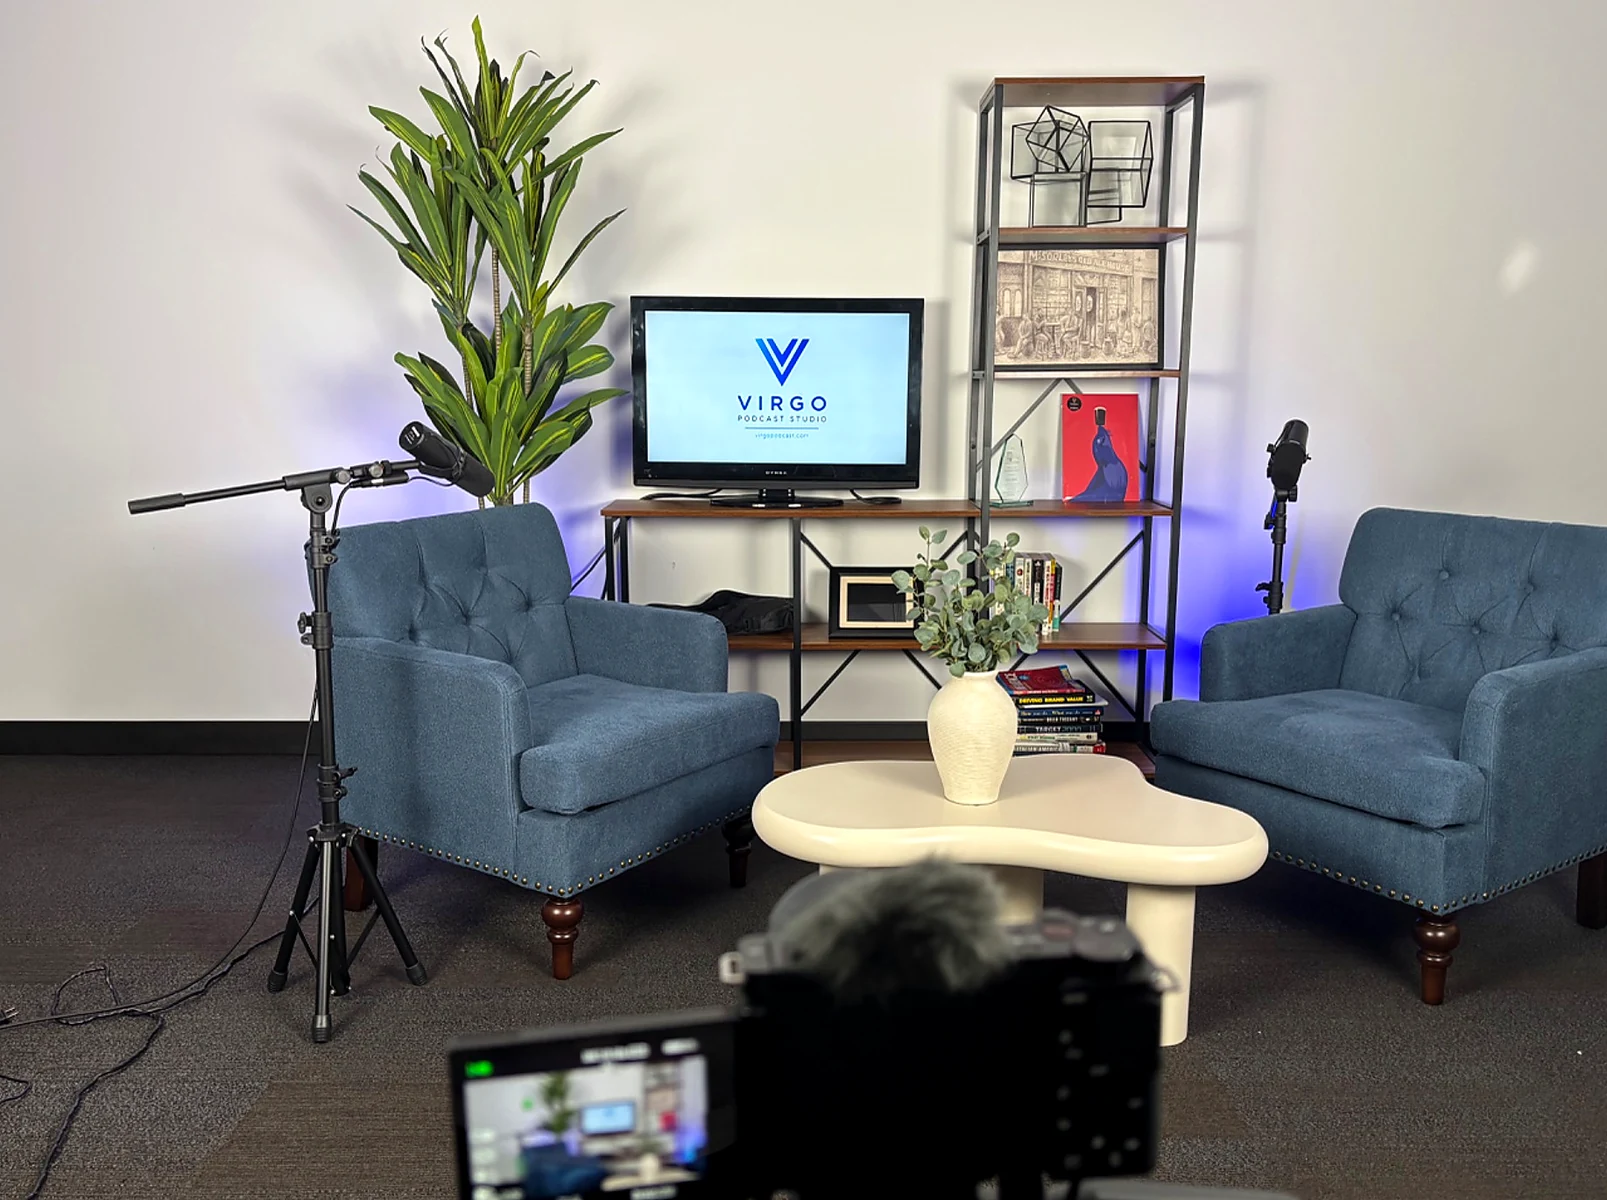
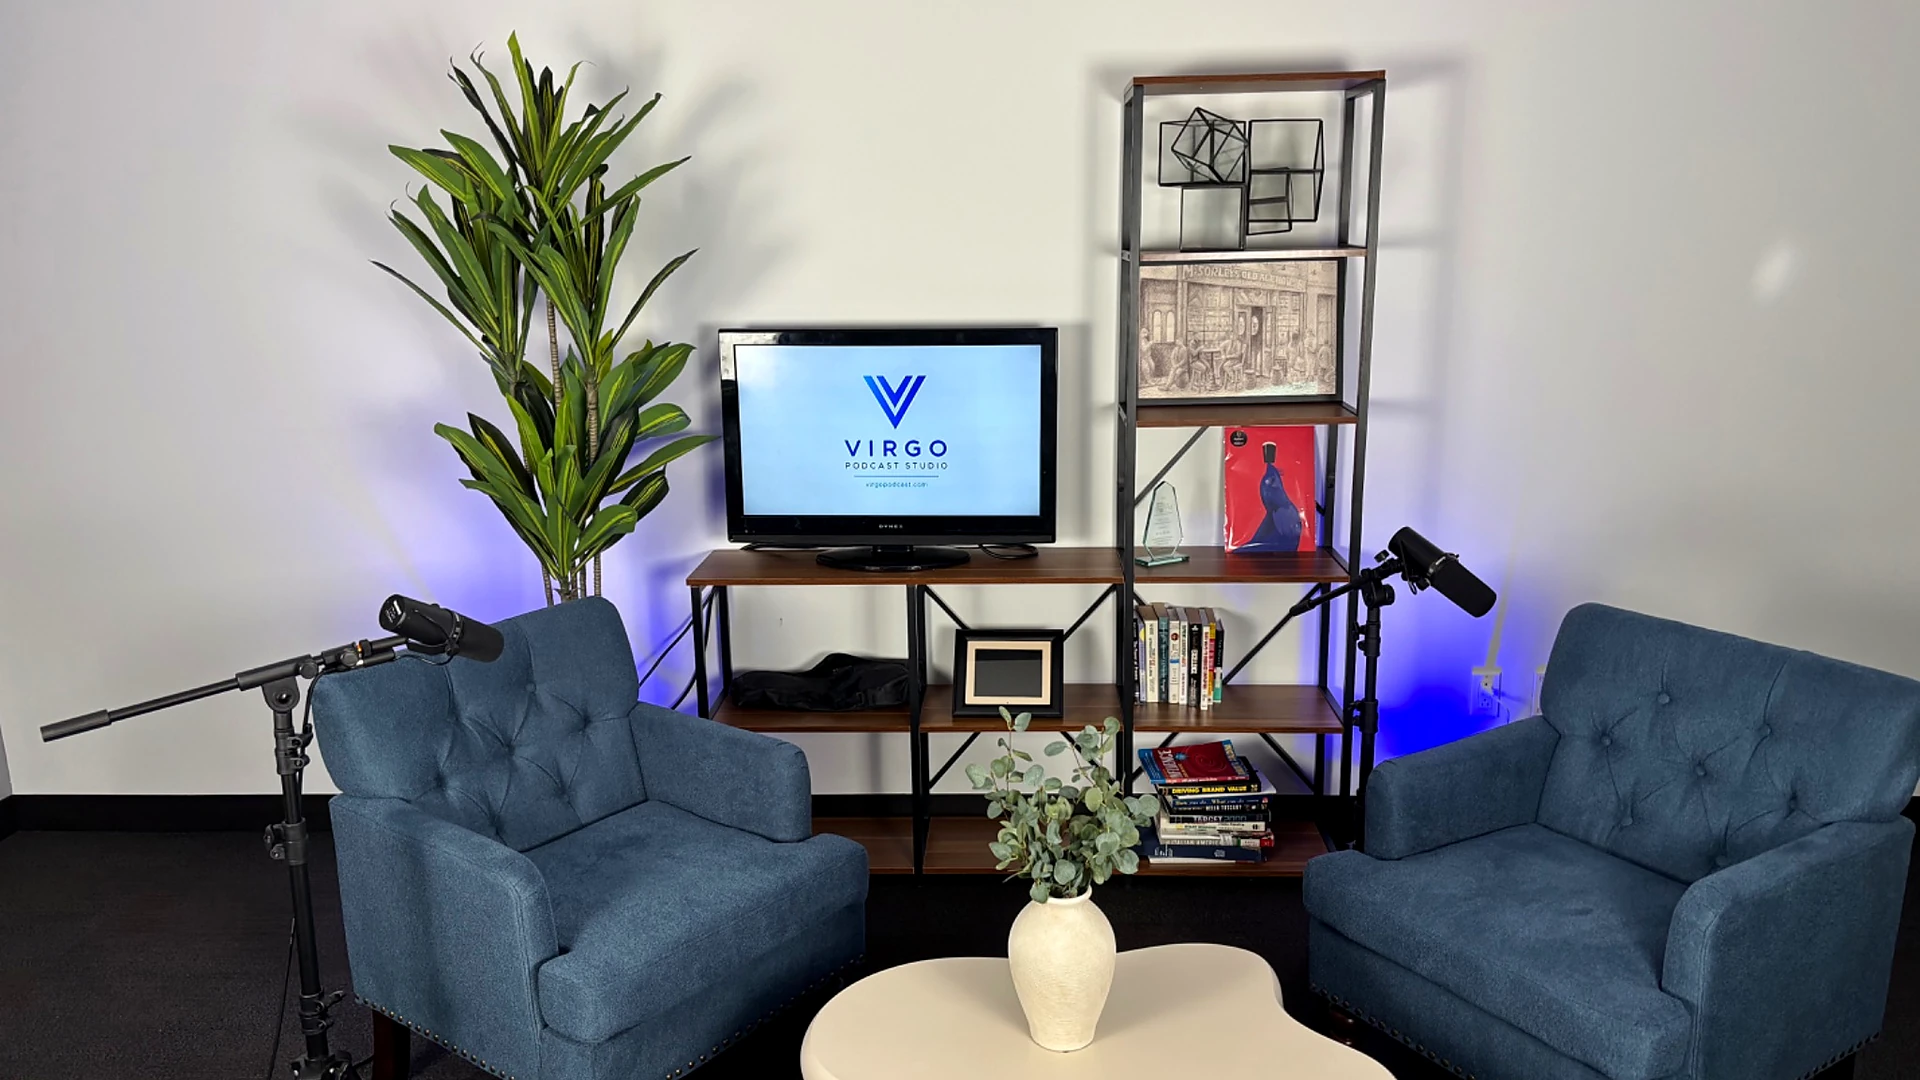
Add files via upload

diff --git a/index.html b/index.html
@@ -5,16 +5,50 @@
 <meta name="description" content="VIRGO Podcast Studio is a cozy professional podcast and video recording studio in Midtown Manhattan offering producer-supported sessions, editing, social media clips, remote third-guest recording, corporate video and customizable studio backdrops.">
 <meta name="keywords" content="podcast studio NYC, Midtown Manhattan podcast studio, podcast studio rental NYC, video podcast studio Manhattan, corporate video recording NYC, social media clip editing, remote podcast guest recording, podcast producer New York, content creation studio Midtown">
 <link rel="canonical" href="https://www.virgopodcast.com/">
-<meta property="og:title" content="VIRGO Podcast Studio | Cozy Midtown Podcast & Video Studio"><meta property="og:description" content="Professional recording, editing, social content and remote guest support in Midtown Manhattan."><meta property="og:image" content="https://www.virgopodcast.com/assets/studio-hero.webp"><meta property="og:type" content="website">
+<meta property="og:title" content="VIRGO Podcast Studio | Make What You Do Best Look Its Best"><meta property="og:description" content="Professional recording, editing, social content and remote guest support in Midtown Manhattan."><meta property="og:image" content="https://www.virgopodcast.com/assets/studio-hero.webp"><meta property="og:type" content="website">
 <link rel="icon" href="assets/virgo-logo.png"><link rel="stylesheet" href="styles.css">
 <script type="application/ld+json">{"@context":"https://schema.org","@type":"ProfessionalService","name":"VIRGO Podcast Studio","url":"https://www.virgopodcast.com","telephone":"+1-214-903-6838","email":"ezraberke@virgopodcast.com","address":{"@type":"PostalAddress","streetAddress":"1345 Avenue of the Americas, 2nd Floor","addressLocality":"New York","addressRegion":"NY","postalCode":"10105","addressCountry":"US"},"areaServed":"New York City","description":"Midtown Manhattan podcast and video recording studio with producer support, editing, social media clips, remote guest recording and customizable backdrops."}</script>
 </head><body>
-<header><a class="brand" href="#top"><img src="assets/virgo-logo.png" alt="VIRGO Podcast Studio logo"></a><button class="menu" aria-label="Open menu">☰</button><nav><a href="#studio">Studio</a><a href="#services">Services</a><a href="#backdrops">Backdrops</a><a href="#pricing">Pricing</a><a href="#location">Location</a><a href="#contact">Contact</a></nav><div class="header-cta"><a href="mailto:ezraberke@virgopodcast.com">Email Us</a><a class="solid" href="tel:+12149036838">(214) 903-6838</a></div></header>
+<header><a class="brand" href="#top"><img src="assets/virgo-logo.png" alt="VIRGO Podcast Studio logo"></a><button class="menu" aria-label="Open menu">☰</button><nav><a href="#studio">Studio</a><a href="#services">Services</a><a class="world-cup-nav" href="#world-cup">World Cup</a><a href="#backdrops">Backdrops</a><a href="#pricing">Pricing</a><a href="#location">Location</a><a href="#contact">Contact</a></nav><div class="header-cta"><a href="mailto:ezraberke@virgopodcast.com">Email Us</a><a class="solid" href="tel:+12149036838">(214) 903-6838</a></div></header>
 <main id="top">
-<section class="hero"><img src="assets/studio-hero.webp" alt="Cozy VIRGO podcast studio in Midtown Manhattan with two blue chairs and professional microphones"><div class="shade"></div><div class="hero-copy"><p class="kicker">A cozy Midtown Manhattan studio</p><h1>Your comfortable place to record, connect and create.</h1><p>Professional podcast and video production in an inviting Midtown setting—with an on-site producer, multi-camera recording, editing, social content and remote guest support.</p><div class="actions"><a class="btn primary" href="mailto:ezraberke@virgopodcast.com?subject=VIRGO%20Studio%20Booking">Book by Email</a><a class="btn ghost" href="tel:+12149036838">Call or Text</a></div></div></section>
+<section class="hero"><img src="assets/studio-hero.webp" alt="Cozy VIRGO podcast studio in Midtown Manhattan with two blue chairs and professional microphones"><div class="shade"></div><div class="hero-copy"><p class="kicker">A cozy Midtown Manhattan studio</p><h1>Make what you do best, look its best.</h1><p>Professional podcast and video production in an inviting Midtown setting—with an on-site producer, multi-camera recording, editing, social content and remote guest support.</p><div class="actions"><a class="btn primary" href="mailto:ezraberke@virgopodcast.com?subject=VIRGO%20Studio%20Booking">Book by Email</a><a class="btn ghost" href="tel:+12149036838">Call or Text</a></div></div></section>
 <section class="trust"><div><b>Professional audio + video</b><span>Broadcast microphones, two cameras and studio lighting</span></div><div><b>Third virtual guest</b><span>Bring a remote guest into your conversation with clean audio and video</span></div><div><b>Editing + social clips</b><span>Full episodes and ready-to-post vertical content</span></div><div><b>One stop podcast starter kit</b><span>Recording, production, editing and launch support in one place</span></div></section>
 <section id="studio" class="split section"><div><p class="eyebrow">The actual studio</p><h2>Cozy enough for conversation. Equipped for professional results.</h2><p>VIRGO is designed as a comfortable Midtown recording room—not a cold soundstage. Settle into the chairs, focus on the conversation, and let the producer handle the technical side.</p><ul><li>Two-camera podcast and interview recording</li><li>Professional microphones and multitrack audio</li><li>On-site producer for every session</li><li>Up to two in-studio speakers plus a third virtual guest</li><li>Corporate interviews, testimonials and training videos</li></ul></div><div class="photo-stack"><img src="assets/studio-hero.webp" alt="Actual two-chair podcast recording set"><img src="assets/behind-scenes.webp" alt="Behind-the-scenes view of cameras and lights in the VIRGO studio"></div></section>
 <section id="services" class="section dark"><p class="eyebrow">Audio, visual and content creation</p><h2>One studio. Everything you need to publish.</h2><div class="cards"><article><h3>Podcast & Video Recording</h3><p>Producer-supported sessions with professional sound, multi-camera video and lighting.</p></article><article><h3>Professional Editing</h3><p>Audio cleanup, camera switching, color correction, titles, intros, outros and a polished final episode.</p></article><article><h3>Social Media Content</h3><p>Short-form edits for Instagram Reels, TikTok, YouTube Shorts and LinkedIn, with captions and branded graphics designed to help you reach more people.</p></article><article><h3>Third Virtual Guest</h3><p>Invite a remote speaker, expert or co-host. We integrate the virtual guest into the recording and finished edit.</p></article><article><h3>Corporate Video</h3><p>For all your corporate video recording needs: interviews, training, testimonials, presentations and internal communications.</p></article><article><h3>Podcast Starter Support</h3><p>A one stop podcast starter kit for creators and companies launching a show from concept through distribution-ready content.</p></article></div></section>
+
+<section id="world-cup" class="world-cup section">
+  <div class="wc-copy">
+    <p class="eyebrow">World Cup creator studio · Midtown Manhattan</p>
+    <h2>In New York for the tournament? Record, edit and publish from one convenient studio.</h2>
+    <p>VIRGO gives visiting podcasters, soccer creators, journalists, fan channels, brands and production teams a comfortable Midtown base for match previews, reaction shows, interviews, daily recaps and sponsored content.</p>
+    <div class="wc-features">
+      <span>⚽ Producer-supported recording</span>
+      <span>🎥 Two-camera video + multitrack audio</span>
+      <span>🌐 Third virtual guest capability</span>
+      <span>📱 Reels, TikToks, Shorts + LinkedIn clips</span>
+      <span>🎨 Custom branded and dynamic backgrounds</span>
+      <span>⏱ Same-day editing available by arrangement</span>
+    </div>
+    <div class="actions">
+      <a class="btn primary" href="mailto:ezraberke@virgopodcast.com?subject=World%20Cup%20Creator%20Studio%20Booking">Book a World Cup Session</a>
+      <a class="btn wc-call" href="tel:+12149036838">Call or Text (214) 903-6838</a>
+    </div>
+    <p class="wc-note">Limited tournament availability. VIRGO Podcast Studio is an independent studio and is not affiliated with FIFA or the FIFA World Cup.</p>
+  </div>
+  <div class="wc-panel">
+    <div class="wc-badge">2026</div>
+    <h3>World Cup Creator Package</h3>
+    <ul>
+      <li>90-minute studio session</li>
+      <li>On-site producer</li>
+      <li>Multi-camera recording</li>
+      <li>Remote guest option</li>
+      <li>Edited episode available</li>
+      <li>Social-media clip package available</li>
+    </ul>
+    <p>Flexible custom pricing for creators, media teams and brand activations.</p>
+  </div>
+</section>
 <section id="backdrops" class="section"><p class="eyebrow">Customizable studio backdrops</p><h2>Give the same studio a completely different identity.</h2><p class="lead">Choose a polished backdrop that fits your show or company. Background options are subject to production needs and quoted with the package.</p><div class="backdrops"><figure><img src="assets/executive.webp" alt="Executive wood slat virtual podcast studio backdrop"><figcaption><b>Executive Wood Slat</b><span>Warm, polished and corporate-ready</span></figcaption></figure><figure><img src="assets/moss.webp" alt="Moss wall virtual podcast studio backdrop"><figcaption><b>Living Moss Wall</b><span>Fresh, modern and brand-friendly</span></figcaption></figure></div></section>
 <section id="pricing" class="section pricing"><p class="eyebrow">Flexible pricing</p><h2>Choose how finished you want your content.</h2><div class="price-grid"><article><h3>Studio Session w/ Producer</h3><small>Raw Footage</small><dl><div><dt>1 hour</dt><dd>$75</dd></div><div><dt>2 hours</dt><dd>$125</dd></div><div><dt>Half Day</dt><dd>$200</dd></div><div><dt>Full Day</dt><dd>$350</dd></div></dl><a href="mailto:ezraberke@virgopodcast.com?subject=Raw%20Footage%20Studio%20Session">Book This Package</a></article><article class="featured"><span class="tag">Ready to Publish</span><h3>Studio Session w/ Professional Editing</h3><small>Finished Episode</small><dl><div><dt>1 hour</dt><dd>$125</dd></div><div><dt>2 hours</dt><dd>$175</dd></div><div><dt>Half Day</dt><dd>$250</dd></div><div><dt>Full Day</dt><dd>$395</dd></div></dl><a href="mailto:ezraberke@virgopodcast.com?subject=Professionally%20Edited%20Studio%20Session">Book This Package</a></article><article><h3>Professional Editing + Social Media</h3><small>Episode + Clips</small><dl><div><dt>1 hour</dt><dd>$160</dd></div><div><dt>2 hours</dt><dd>$250</dd></div><div><dt>Half Day</dt><dd>$350</dd></div><div><dt>Full Day</dt><dd>$550</dd></div></dl><a href="mailto:ezraberke@virgopodcast.com?subject=Editing%20and%20Social%20Media%20Package">Book This Package</a></article></div><p class="fine">Custom backdrops, additional editing, advanced graphics, extra clips and specialized corporate productions may require a custom quote.</p></section>
 <section id="location" class="section location"><div><p class="eyebrow">In the heart of Midtown</p><h2>A professional setting in a convenient Manhattan location.</h2><p>Record at 1345 Avenue of the Americas, 2nd Floor—near Bryant Park, Rockefeller Center, Times Square, Grand Central and major subway lines.</p><div class="actions"><a class="btn primary" href="mailto:ezraberke@virgopodcast.com">Ask About Availability</a><a class="btn darkbtn" href="tel:+12149036838">(214) 903-6838</a></div></div><div class="location-grid"><img src="assets/midtown.webp" alt="Midtown Manhattan near the VIRGO studio"><img src="assets/building.webp" alt="1345 Avenue of the Americas building exterior"></div></section>

diff --git a/styles.css b/styles.css
@@ -1,1 +1,5 @@
 *{box-sizing:border-box}html{scroll-behavior:smooth}body{margin:0;font-family:Inter,Arial,sans-serif;color:#10233e;background:#fff;line-height:1.55}header{height:82px;padding:8px 4vw;display:flex;align-items:center;gap:28px;background:#061629;color:#fff;position:sticky;top:0;z-index:10}.brand img{width:126px;height:64px;object-fit:contain;background:#fff;border-radius:8px;padding:3px}.menu{display:none;margin-left:auto;background:none;border:0;color:#fff;font-size:27px}nav{display:flex;gap:24px;margin-left:auto}nav a,.header-cta a{color:#fff;text-decoration:none;font-size:14px}.header-cta{display:flex;gap:10px}.header-cta a{padding:11px 15px;border:1px solid #387cd8;border-radius:4px}.header-cta .solid{background:#1164d6}.hero{height:690px;position:relative;overflow:hidden}.hero>img{width:100%;height:100%;object-fit:cover;object-position:center 55%}.shade{position:absolute;inset:0;background:linear-gradient(90deg,rgba(1,15,31,.9) 0%,rgba(1,15,31,.66) 38%,rgba(1,15,31,.08) 72%)}.hero-copy{position:absolute;left:6vw;top:50%;transform:translateY(-50%);max-width:660px;color:#fff}.kicker,.eyebrow{text-transform:uppercase;letter-spacing:.14em;font-weight:800;color:#247dea;font-size:13px}.hero h1{font-family:Georgia,serif;font-size:58px;line-height:1.05;margin:12px 0 20px}.hero-copy>p:not(.kicker){font-size:19px;max-width:620px}.actions{display:flex;gap:14px;flex-wrap:wrap;margin-top:28px}.btn{padding:14px 22px;border-radius:5px;text-decoration:none;font-weight:800}.primary{background:#1269dc;color:#fff}.ghost{border:1px solid #fff;color:#fff}.darkbtn{border:1px solid #143c6c;color:#143c6c}.trust{background:#061629;color:#fff;display:grid;grid-template-columns:repeat(4,1fr);padding:20px 5vw;gap:20px}.trust div{border-right:1px solid #35506e;padding-right:18px}.trust div:last-child{border:0}.trust b,.trust span{display:block}.trust span{font-size:13px;color:#b9c5d3;margin-top:4px}.section{padding:90px 6vw}.section h2{font-family:Georgia,serif;font-size:43px;line-height:1.12;margin:8px 0 22px}.split{display:grid;grid-template-columns:.8fr 1.2fr;gap:60px;align-items:center}.split li{margin:9px 0}.photo-stack{display:grid;grid-template-columns:1.15fr .85fr;gap:14px}.photo-stack img{width:100%;height:450px;object-fit:cover;border-radius:10px}.photo-stack img:nth-child(2){object-position:center 53%}.dark{background:#07182b;color:#fff}.cards{display:grid;grid-template-columns:repeat(3,1fr);gap:18px;margin-top:36px}.cards article{background:#102842;padding:26px;border-radius:8px;border:1px solid #244466}.cards h3{color:#57a0ff}.lead{max-width:760px}.backdrops{display:grid;grid-template-columns:1fr 1fr;gap:24px;margin-top:34px}.backdrops figure{margin:0;background:#061629;border-radius:10px;overflow:hidden;color:#fff}.backdrops img{width:100%;height:360px;object-fit:cover}.backdrops figcaption{padding:16px 20px}.backdrops b,.backdrops span{display:block}.backdrops span{color:#bac9d9}.pricing{background:#f2f6fb}.price-grid{display:grid;grid-template-columns:repeat(3,1fr);gap:22px;margin-top:35px}.price-grid article{background:#fff;padding:28px;border:1px solid #d8e1ec;border-radius:9px;position:relative;box-shadow:0 12px 30px rgba(18,45,75,.07)}.price-grid .featured{border:2px solid #1269dc;transform:translateY(-8px)}.tag{position:absolute;right:16px;top:14px;color:#1269dc;font-size:12px;font-weight:800;text-transform:uppercase}.price-grid small{color:#64788c}.price-grid dl div{display:flex;justify-content:space-between;border-bottom:1px solid #e5ebf2;padding:11px 0}.price-grid dd{font-weight:800}.price-grid a{display:block;text-align:center;background:#1269dc;color:#fff;padding:12px;text-decoration:none;margin-top:22px;border-radius:4px}.fine{font-size:13px;color:#5d6e80;margin-top:22px}.location{display:grid;grid-template-columns:.8fr 1.2fr;gap:50px;align-items:center}.location-grid{display:grid;grid-template-columns:1fr 1fr;gap:14px}.location-grid img{width:100%;height:480px;object-fit:cover;border-radius:9px}.location-grid img:nth-child(2){object-position:center}.faq{background:#f6f8fb}.faq details{background:#fff;margin:12px 0;padding:18px 22px;border-radius:7px;border:1px solid #dde5ef}.faq summary{font-weight:800;cursor:pointer}.contact{background:#07182b;color:#fff;text-align:center;padding:90px 6vw}.contact h2{font-family:Georgia,serif;font-size:48px;margin:5px}.contact .actions{justify-content:center}footer{background:#020d1b;color:#aebdcb;padding:28px 5vw;display:flex;align-items:center;justify-content:space-between;gap:20px;font-size:13px}footer img{width:100px;background:#fff;border-radius:6px}@media(max-width:900px){nav,.header-cta{display:none}.menu{display:block}header.open nav{display:flex;position:absolute;top:82px;left:0;right:0;background:#061629;flex-direction:column;padding:25px}.hero{height:620px}.hero h1{font-size:42px}.trust{grid-template-columns:1fr 1fr}.split,.location{grid-template-columns:1fr}.cards,.price-grid{grid-template-columns:1fr}.price-grid .featured{transform:none}.backdrops{grid-template-columns:1fr}.photo-stack img{height:340px}}@media(max-width:600px){.section{padding:65px 5vw}.hero h1{font-size:36px}.hero-copy{left:5vw;right:5vw}.trust{grid-template-columns:1fr}.trust div{border-right:0;border-bottom:1px solid #35506e;padding-bottom:12px}.photo-stack{grid-template-columns:1fr}.backdrops img{height:240px}.location-grid img{height:300px}footer{flex-direction:column;text-align:center}}
+.world-cup-nav{color:#78b3ff!important;font-weight:800}.world-cup{background:linear-gradient(135deg,#04101f 0%,#08294b 58%,#0d5aa8 100%);color:#fff;display:grid;grid-template-columns:1.35fr .65fr;gap:44px;align-items:center;position:relative;overflow:hidden}.world-cup:before{content:"";position:absolute;width:380px;height:380px;border:58px solid rgba(255,255,255,.035);border-radius:50%;right:-120px;top:-150px}.world-cup h2{max-width:850px}.world-cup .eyebrow{color:#8cc1ff}.wc-copy{position:relative;z-index:1}.wc-copy>p{max-width:820px}.wc-features{display:grid;grid-template-columns:1fr 1fr;gap:12px 22px;margin:28px 0}.wc-features span{background:rgba(255,255,255,.075);border:1px solid rgba(255,255,255,.15);padding:12px 14px;border-radius:7px;font-weight:700}.wc-call{border:1px solid rgba(255,255,255,.75);color:#fff}.wc-note{font-size:12px;color:#b9cadc;margin-top:18px}.wc-panel{position:relative;z-index:1;background:#fff;color:#10233e;border-radius:12px;padding:30px;box-shadow:0 24px 60px rgba(0,0,0,.28)}.wc-panel h3{font-family:Georgia,serif;font-size:30px;margin:8px 0 14px}.wc-panel ul{padding-left:20px}.wc-panel li{margin:9px 0}.wc-badge{display:inline-block;background:#1269dc;color:#fff;font-weight:900;font-size:20px;letter-spacing:.12em;padding:6px 11px;border-radius:5px}@media(max-width:900px){.world-cup{grid-template-columns:1fr}.wc-features{grid-template-columns:1fr}}
+/* July 2026 hero refresh */
+.hero>img{object-position:center center}
+@media(max-width:700px){.hero>img{object-position:58% center}.hero .shade{background:linear-gradient(90deg,rgba(1,15,31,.92) 0%,rgba(1,15,31,.7) 62%,rgba(1,15,31,.24) 100%)}}

diff --git a/README.md b/README.md
@@ -3,3 +3,6 @@
 Upload the contents of this folder to the GitHub repository connected to Vercel. The homepage is `index.html`. All images are in `assets/`.
 
 Booking links route to ezraberke@virgopodcast.com and (214) 903-6838.
+
+## Latest hero update
+The homepage now uses IMG_9378 as the primary cover photo and the headline: “Make what you do best, look its best.”
